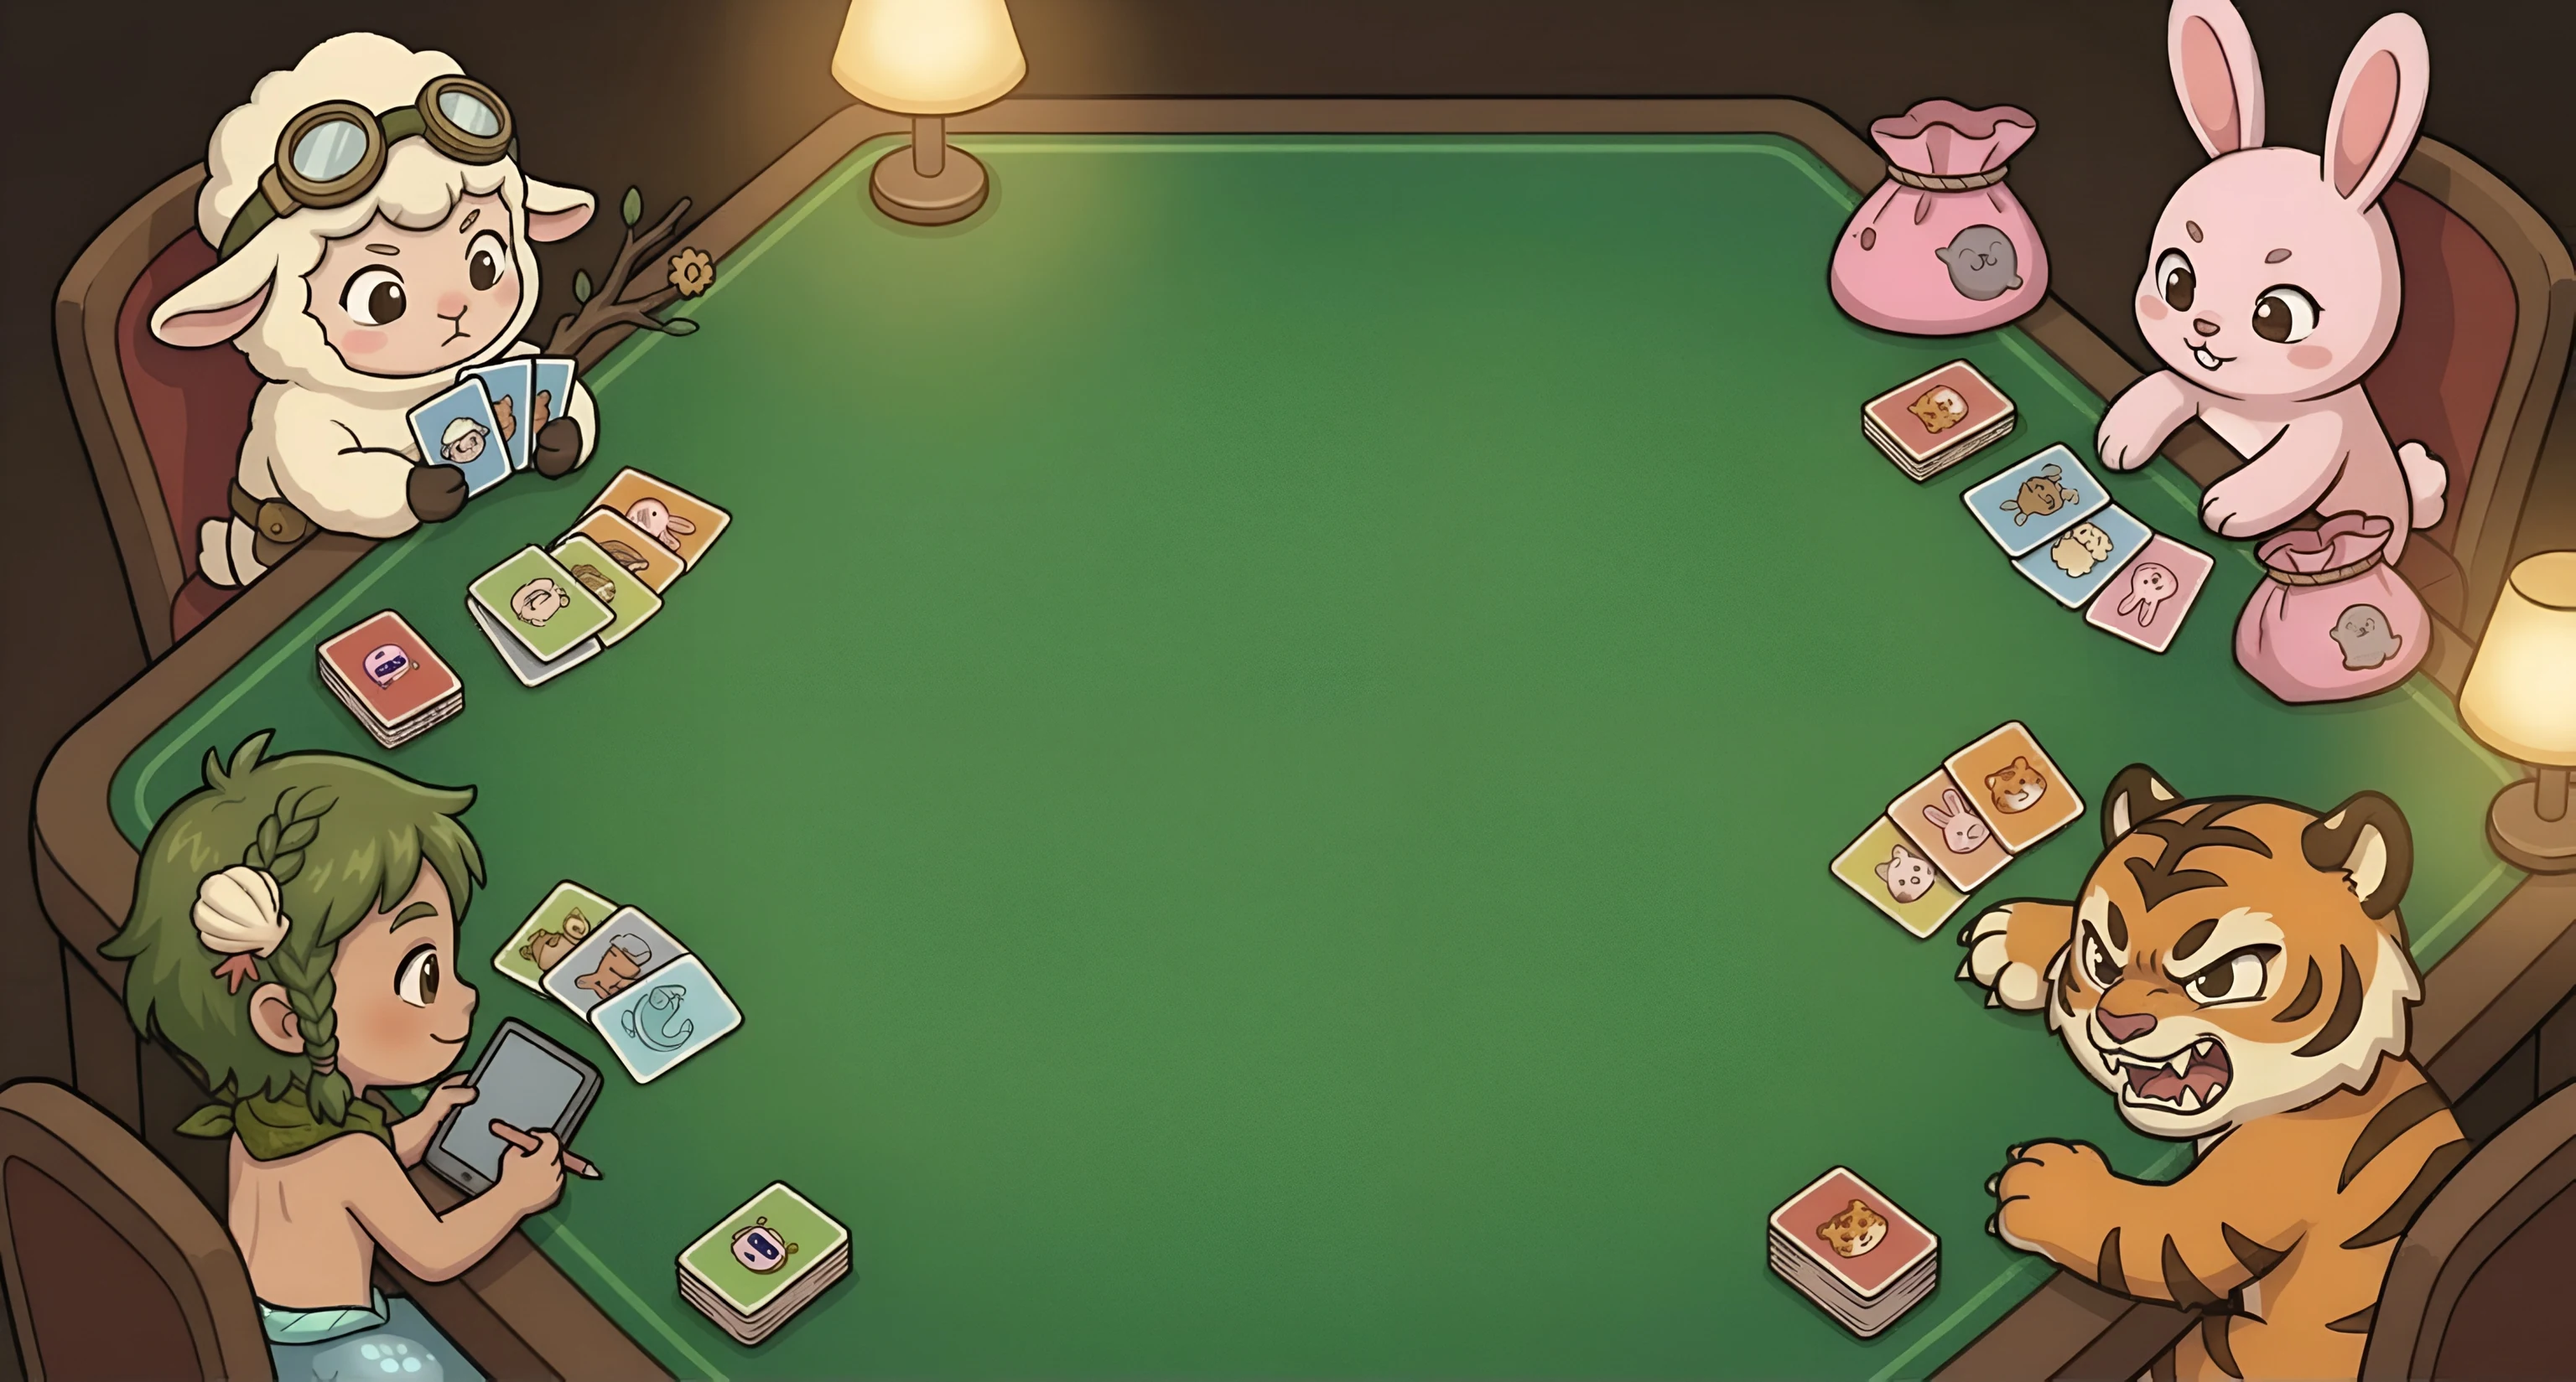
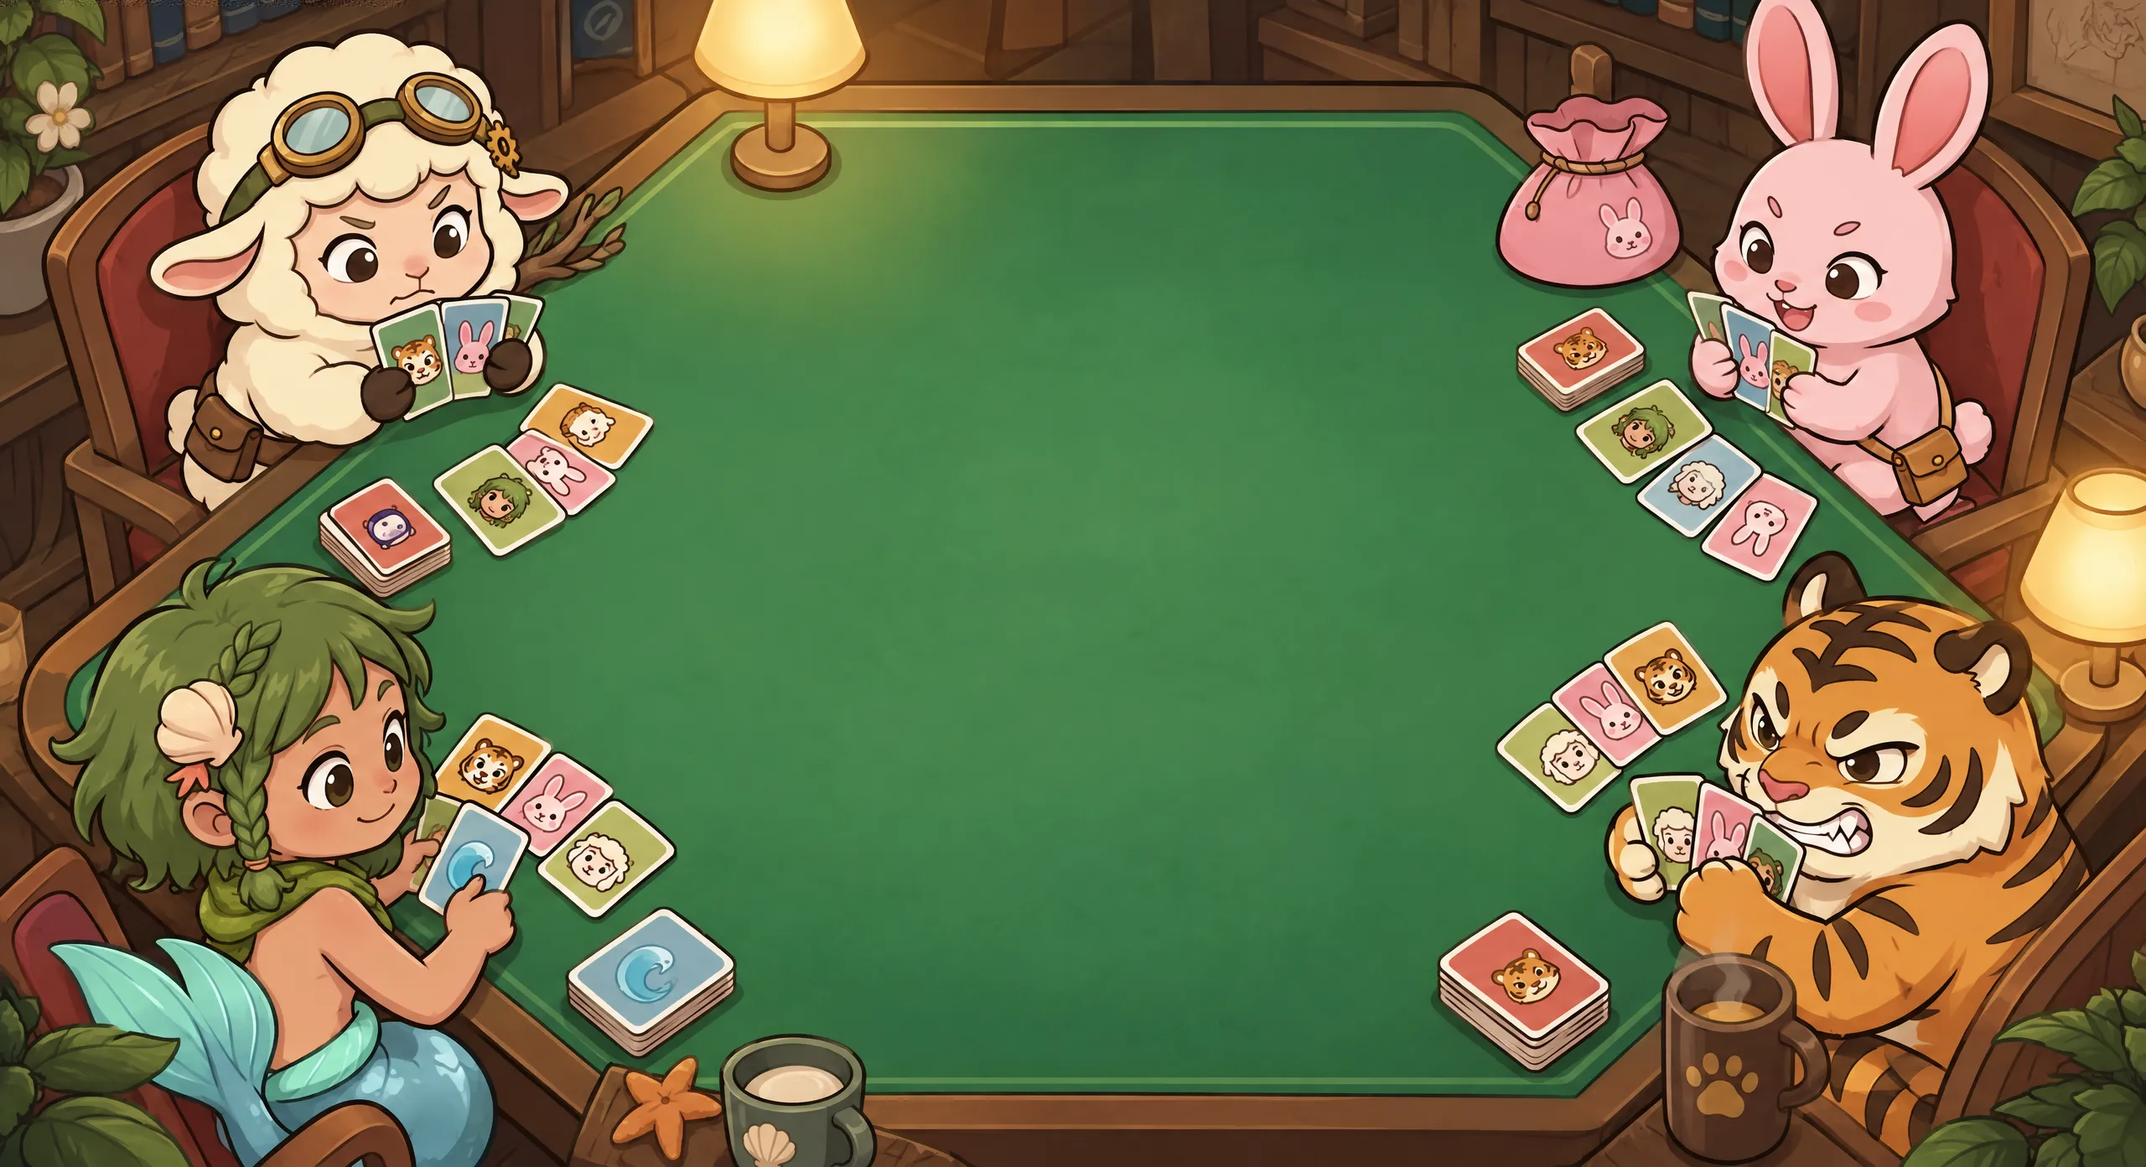
feat: 타이틀 화면 배경을 새 카드테이블 그림으로 교체
`table_bg.webp`를 새 타이틀 그림(2560×1392)으로 갈았다. 원본을 줄이지 않고 webp q80으로만
바꿔 넣었는데도 예전 3072px판(374KB)보다 가볍다(**255KB**).

## 안전영역은 눈대중하지 않았다
배경을 바꾸면 `--table-w/h`와 `--safe-*` 여섯 값만 고치면 되지만(컴포넌트는 그대로),
그 여섯을 **그림에서 재서** 정했다 — 펠트(초록)가 이어지는 구간을 훑어 완전히 빈
사각형을 찾으면 882×882, 곧 좌 33.4% / 우 32.2% / 상 17.2% / 하 19.4%다.

**그런데 그 값을 그대로 쓰면 안 된다.** 1280×900에서 안전영역이 569×571로 줄어
폼(738×628)이 넘친다. 예전 그림도 카드 부채의 바깥 끝은 UI 밑에 깔고 있었으므로 같은
기준을 맞췄다 — 좌우 **28%**는 양·토끼가 끝나는 자리(원본 x 717 / 1843)이고 카드
부채의 바깥 끝만 살짝 덮는다. 위 **15%**는 램프 아래(y 209), 아래 **15%**는 찻잔 위(y 1183).

## 모바일 대칭 보정을 걷어냈다
좁은 화면에서 `--safe-left/right`를 30%로 맞추던 미디어쿼리는 **옛 그림의 좌우 비대칭
(26.4/29.6)을 되돌리려던 것**이었다. 새 배경은 처음부터 28%로 대칭이라 할 일이 없다.
세로로 긴 화면에서 안전영역이 화면 밖으로 뻗는 것은 `.lobby-safe`의 max-width/height가 막는다.

## 검증
measureLobby 3뷰포트 × 7단계 **문제 0건 · 콘솔 에러 0건**.
안전영역 실측이 교체 전과 거의 같다 — 1280×900 738×628 → **728×630**,
1920×1080 885×754 → **874×756**, 390×844 371×589 → **371×591**.
폼 카드 크기도 그대로다(484×504 / 573×619 / 358×519). 클라이언트 빌드 통과.

diff --git a/client/app/globals.css b/client/app/globals.css
@@ -2445,12 +2445,19 @@ body {
 }
 .lobby-table {
   /* client/public/lobby/table_bg.webp 의 실제 픽셀 크기 */
-  --table-w: 3072;
-  --table-h: 1649;
-  --safe-left: 26.4%;
-  --safe-right: 29.6%;
-  --safe-top: 15.9%;
-  --safe-bottom: 14.3%;
+  --table-w: 2560;
+  --table-h: 1392;
+  /* 캐릭터·카드더미·램프를 피한 자리. **눈대중이 아니라 그림에서 재서 정한다** —
+     펠트(초록)가 이어지는 구간을 훑으면 새 그림의 완전한 빈 사각형은 882×882
+     (좌 33.4% / 우 32.2% / 상 17.2% / 하 19.4%)인데, 그대로 쓰면 1280×900에서
+     안전영역이 569×571로 줄어 폼이 넘친다(지금 폼은 738×628을 쓴다).
+     예전 그림도 카드더미 바깥 끝은 UI 밑에 깔고 있었으므로 같은 기준을 맞췄다 —
+     좌우 28%는 양·토끼가 끝나는 자리(원본 x 717 / 1843)이고, 카드 부채의 바깥 끝만
+     살짝 덮는다. 위 15%는 램프 아래(y 209), 아래 15%는 찻잔 위(y 1183)다. */
+  --safe-left: 28%;
+  --safe-right: 28%;
+  --safe-top: 15%;
+  --safe-bottom: 15%;
 
   position: absolute;
   top: 50%;
@@ -3442,13 +3449,9 @@ body {
 
 /* ── 로비 스테이지 — 모바일: 같은 메커니즘을 세로축으로 ──────────────────── */
 @media (max-width: 767px) {
-  /* 세로로 긴 화면에서는 테이블이 크게 확대돼 화면에 펠트 가운데만 보인다 —
-     캐릭터를 피하려고 좌우를 비대칭으로 둘 이유가 없고, 오히려 그 1.6% 차이가
-     확대 배율만큼 벌어져 안전영역을 화면 밖으로 밀어낸다. 좁은 화면에선 대칭으로 둔다. */
-  .lobby-table {
-    --safe-left: 30%;
-    --safe-right: 30%;
-  }
+  /* 좌우 비대칭(26.4/29.6)을 대칭으로 되돌리던 보정이 여기 있었지만, 새 배경은
+     처음부터 좌우가 28%로 대칭이라 더 할 일이 없어 걷어냈다. 세로로 긴 화면에서
+     안전영역이 화면 밖으로 뻗는 것은 `.lobby-safe`의 max-width/height가 막는다. */
 
   /* 좁은 화면에서는 로고가 가로 폭에 먼저 걸려 더 커지지 못한다 —
      슬롯을 넓게 잡아봐야 빈 공간만 생기고 아래 버튼만 눌리므로 낮춰 잡는다. */

diff --git a/client/lib/lobbyAssets.ts b/client/lib/lobbyAssets.ts
@@ -7,10 +7,11 @@
 
 export const LOBBY_ASSETS = {
   /**
-   * 로비 전체 배경 — 카드테이블 일러스트 (3072×1649 WebP, 약 374KB).
-   * 원본 4096×2198 PNG는 12.9MB라 매 접속마다 내려받기엔 너무 무거워 WebP로 줄였다.
-   * 원본이 필요하면 git 이력에서 꺼낼 수 있다:
-   *   git show b14caba:client/public/lobby/table_bg.png > table_bg.png
+   * 로비 전체 배경 — 카드테이블 일러스트 (2560×1392 WebP, 약 255KB).
+   * 2026-09-11에 새 타이틀 그림으로 교체했다. 이번에는 원본을 줄이지 않고 webp q80으로만
+   * 바꿔 넣었는데도 예전 3072px판(374KB)보다 가볍다.
+   * 예전 배경이 필요하면 git 이력에서 꺼낼 수 있다:
+   *   git show b377777:client/public/lobby/table_bg.webp > table_bg.webp
    * 안전영역 좌표는 globals.css의 .lobby-table 변수에 있다 (public/lobby/README.md 참조).
    */
   table: '/lobby/table_bg.webp',

diff --git a/client/public/lobby/README.md b/client/public/lobby/README.md
@@ -4,7 +4,7 @@
 
 | 파일 | 크기 | 용도 |
 | --- | --- | --- |
-| `table_bg.webp` | 3072×1649 / 374KB | 로비 전체 배경 — 네 동물이 둘러앉은 카드테이블 일러스트 |
+| `table_bg.webp` | 2560×1392 / 255KB | 로비 전체 배경 — 네 동물이 둘러앉은 카드테이블 일러스트 |
 | `logo.png` | 가로:세로 ≈ 10:3 | 상단 로고 — 투명 배경 "떱카드 T.U.P.D." 엠블럼 |
 | `panel_solo.webp` | 768×768 / 94KB | "혼자 놀기" 패널 아트 — 네 동물 vs 로봇(CPU) |
 | `panel_multi.webp` | 768×768 / 80KB | "다같이 놀기" 패널 아트 — 네 동물이 테이블에 둘러앉은 그림 |
@@ -33,14 +33,17 @@ git show b14caba:client/public/lobby/table_bg.png > table_bg.png
 
 해상도를 다시 정할 일이 있으면 참고할 실측값:
 
-| 가로 | 용량 | 원본 대비 | 선명하게 커버되는 화면 폭 |
-| --- | --- | --- | --- |
-| 2048px | 183 KB | 1.4% | ~1950px |
-| **3072px (현재)** | **374 KB** | **2.8%** | **~2926px** |
-| 3840px | 578 KB | 4.4% | ~3657px |
+| 가로 | 용량 | 선명하게 커버되는 화면 폭 |
+| --- | --- | --- |
+| 1920px | 208 KB | ~1830px |
+| 2048px | 211 KB | ~1950px |
+| **2560px (현재, 원본 그대로)** | **255 KB** | **~2440px** |
+
+새 그림(2560×1392)은 원본을 줄이지 않고 webp q80으로만 바꿔 넣었다 — 예전 3072px판
+(374KB)보다 오히려 가볍다.
 
 배경은 화면을 꽉 채우므로 투명도가 필요 없다. 테이블은 `cover`로 그려져 화면 가로보다
-크게 확대되므로(표시폭 ≈ `max(vw, vh × 1.863)`), 위 표의 "커버되는 화면 폭"은 그 점을
+크게 확대되므로(표시폭 ≈ `max(vw, vh × 1.839)`), 위 표의 "커버되는 화면 폭"은 그 점을
 감안한 근사치다.
 
 ## 안전영역 — 버튼이 캐릭터를 가리지 않게 하는 좌표
@@ -51,12 +54,12 @@ git show b14caba:client/public/lobby/table_bg.png > table_bg.png
 
 ```css
 .lobby-table {
-  --table-w: 3072;      /* table_bg.webp 의 실제 픽셀 크기 */
-  --table-h: 1649;
-  --safe-left: 26.4%;   /* 실용신양·디자인어, 왼쪽 카드더미를 피함 */
-  --safe-right: 29.6%;  /* 상표토끼·특허랑이, 주머니, 오른쪽 카드더미를 피함 */
-  --safe-top: 15.9%;    /* 위쪽 램프와 나무 테두리를 피함 */
-  --safe-bottom: 14.3%; /* 아래쪽 카드더미 두 개를 피함 */
+  --table-w: 2560;      /* table_bg.webp 의 실제 픽셀 크기 */
+  --table-h: 1392;
+  --safe-left: 28%;     /* 실용신양·디자인어를 피함 (원본 x 717) */
+  --safe-right: 28%;    /* 상표토끼·특허랑이를 피함 (원본 x 1843) */
+  --safe-top: 15%;      /* 위쪽 램프 아래 (원본 y 209) */
+  --safe-bottom: 15%;   /* 아래쪽 찻잔 위 (원본 y 1183) */
 }
 ```
 
@@ -64,5 +67,17 @@ git show b14caba:client/public/lobby/table_bg.png > table_bg.png
 해상도만 바뀌는 경우에도 `--table-w/h`는 실제 픽셀 크기로 맞춰 두는 편이 좋다(비율만 맞으면
 동작은 같지만, 값이 곧 문서 역할을 한다).
 
-좁은 화면(≤767px)에서는 테이블이 크게 확대돼 좌우 비대칭이 화면 이탈을 만들므로,
-같은 파일의 미디어쿼리에서 `--safe-left/right`를 `30%`로 대칭 처리한다.
+### 값을 정하는 법 — 눈대중하지 말 것
+
+**펠트(초록)가 이어지는 구간을 그림에서 직접 재서** 정한다. 새 그림에서 완전히 빈
+사각형은 882×882(좌 33.4% / 우 32.2% / 상 17.2% / 하 19.4%)였는데, **그대로 쓰면
+1280×900에서 안전영역이 569×571로 줄어 폼이 넘친다**(폼은 738×628을 쓴다).
+
+예전 그림도 카드 부채의 바깥 끝은 UI 밑에 깔고 있었으므로 같은 기준을 맞췄다 —
+좌우 28%는 양·토끼가 끝나는 자리이고 카드 부채의 바깥 끝만 살짝 덮는다.
+**정했으면 반드시 `measureLobby.mjs`로 세 해상도를 다시 잰다**(교체 후 실측:
+1280×900 → 728×630, 1920×1080 → 874×756, 390×844 → 371×591, 문제 0건).
+
+좁은 화면(≤767px)용 좌우 대칭 보정은 **걷어냈다** — 새 배경은 처음부터 좌우가 28%로
+대칭이라 할 일이 없다. 세로로 긴 화면에서 안전영역이 화면 밖으로 뻗는 것은
+`.lobby-safe`의 `max-width`/`max-height`가 막는다.
